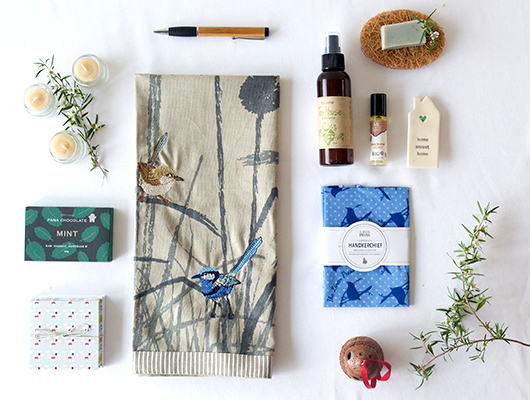
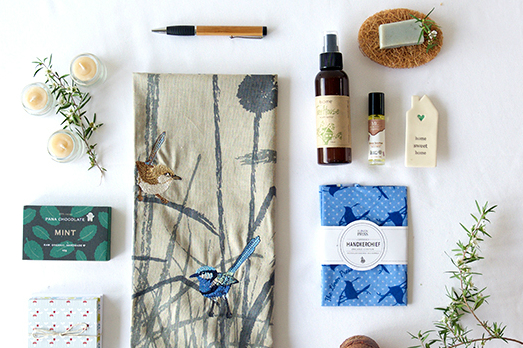
changed carousel images

diff --git a/apaleshadeofgreen/index.html b/apaleshadeofgreen/index.html
@@ -41,8 +41,9 @@
 		        <div id="owl-carousel" class="owl-carousel"> 
 		          			
 		           	<div class="slide"> 
-		           		<h1 class="tagline"><span>Inspire eco living for everyday people</span></h1>
-		           		<img src="images/carousel-image.jpg"  alt="carousel image 1" >
+		           		<h1 class="tagline"><span>Inspire eco living</span> <br>
+		           			<span> for everyday people</span></h1>
+		           		<img src="images/test6.jpg"  alt="carousel image 1" >
 
       	           		<a href="#about"  class="button button-primary" title="About">Learn more </a>
       	        
@@ -55,7 +56,7 @@
 
 		           	<div class="slide"> 
 		           		<h1 class="tagline"><span> We might be new... </span></h1>
-		           		<img src="images/gifts-for-him.jpg"  alt="carousel image 2" >
+		           		<img src="images/test14.jpg"  alt="carousel image 2" >
       	           		<a href="#about"  class="button button-primary" title="About">Learn more </a>
       	        
 		           		<a class="scroll-down" href="#about">
@@ -69,7 +70,7 @@
 
 		           	<div class="slide"> 
 		           		<h1 class="tagline"><span>But the future is bright!</span></h1>
-		           		<img src="images/gifts-for-her.jpg" alt="carousel image 3" >
+		           		<img src="images/test15.jpg" alt="carousel image 3" >
       	           		<a href="#about"  class="button button-primary" title="About">Learn more </a>
       	        
 		           		<a class="scroll-down" href="#about">
@@ -122,7 +123,6 @@
 		           		</div>
 
 		           		
-
 		           	</section>                
 	
 

diff --git a/apaleshadeofgreen/css/style.css b/apaleshadeofgreen/css/style.css
@@ -54,7 +54,7 @@ h1 {
 
 h2 {
     font-size: 30px;
-    font-weight: 500; 
+    font-weight: 600; 
     color: rgb(124, 128, 129);
     font-family: inherit;
     line-height: 40px;
@@ -317,9 +317,8 @@ h1.tagline span  {
     text-shadow:0 0 50px rgba(0, 0, 0, 0.8);
     border-bottom: solid 4px #fff;
     text-transform: uppercase;
-    margin: 100px 0 50px 0;
-   
-  }
+    margin: 100px 20px 50px 20px;
+}
 
 
 
